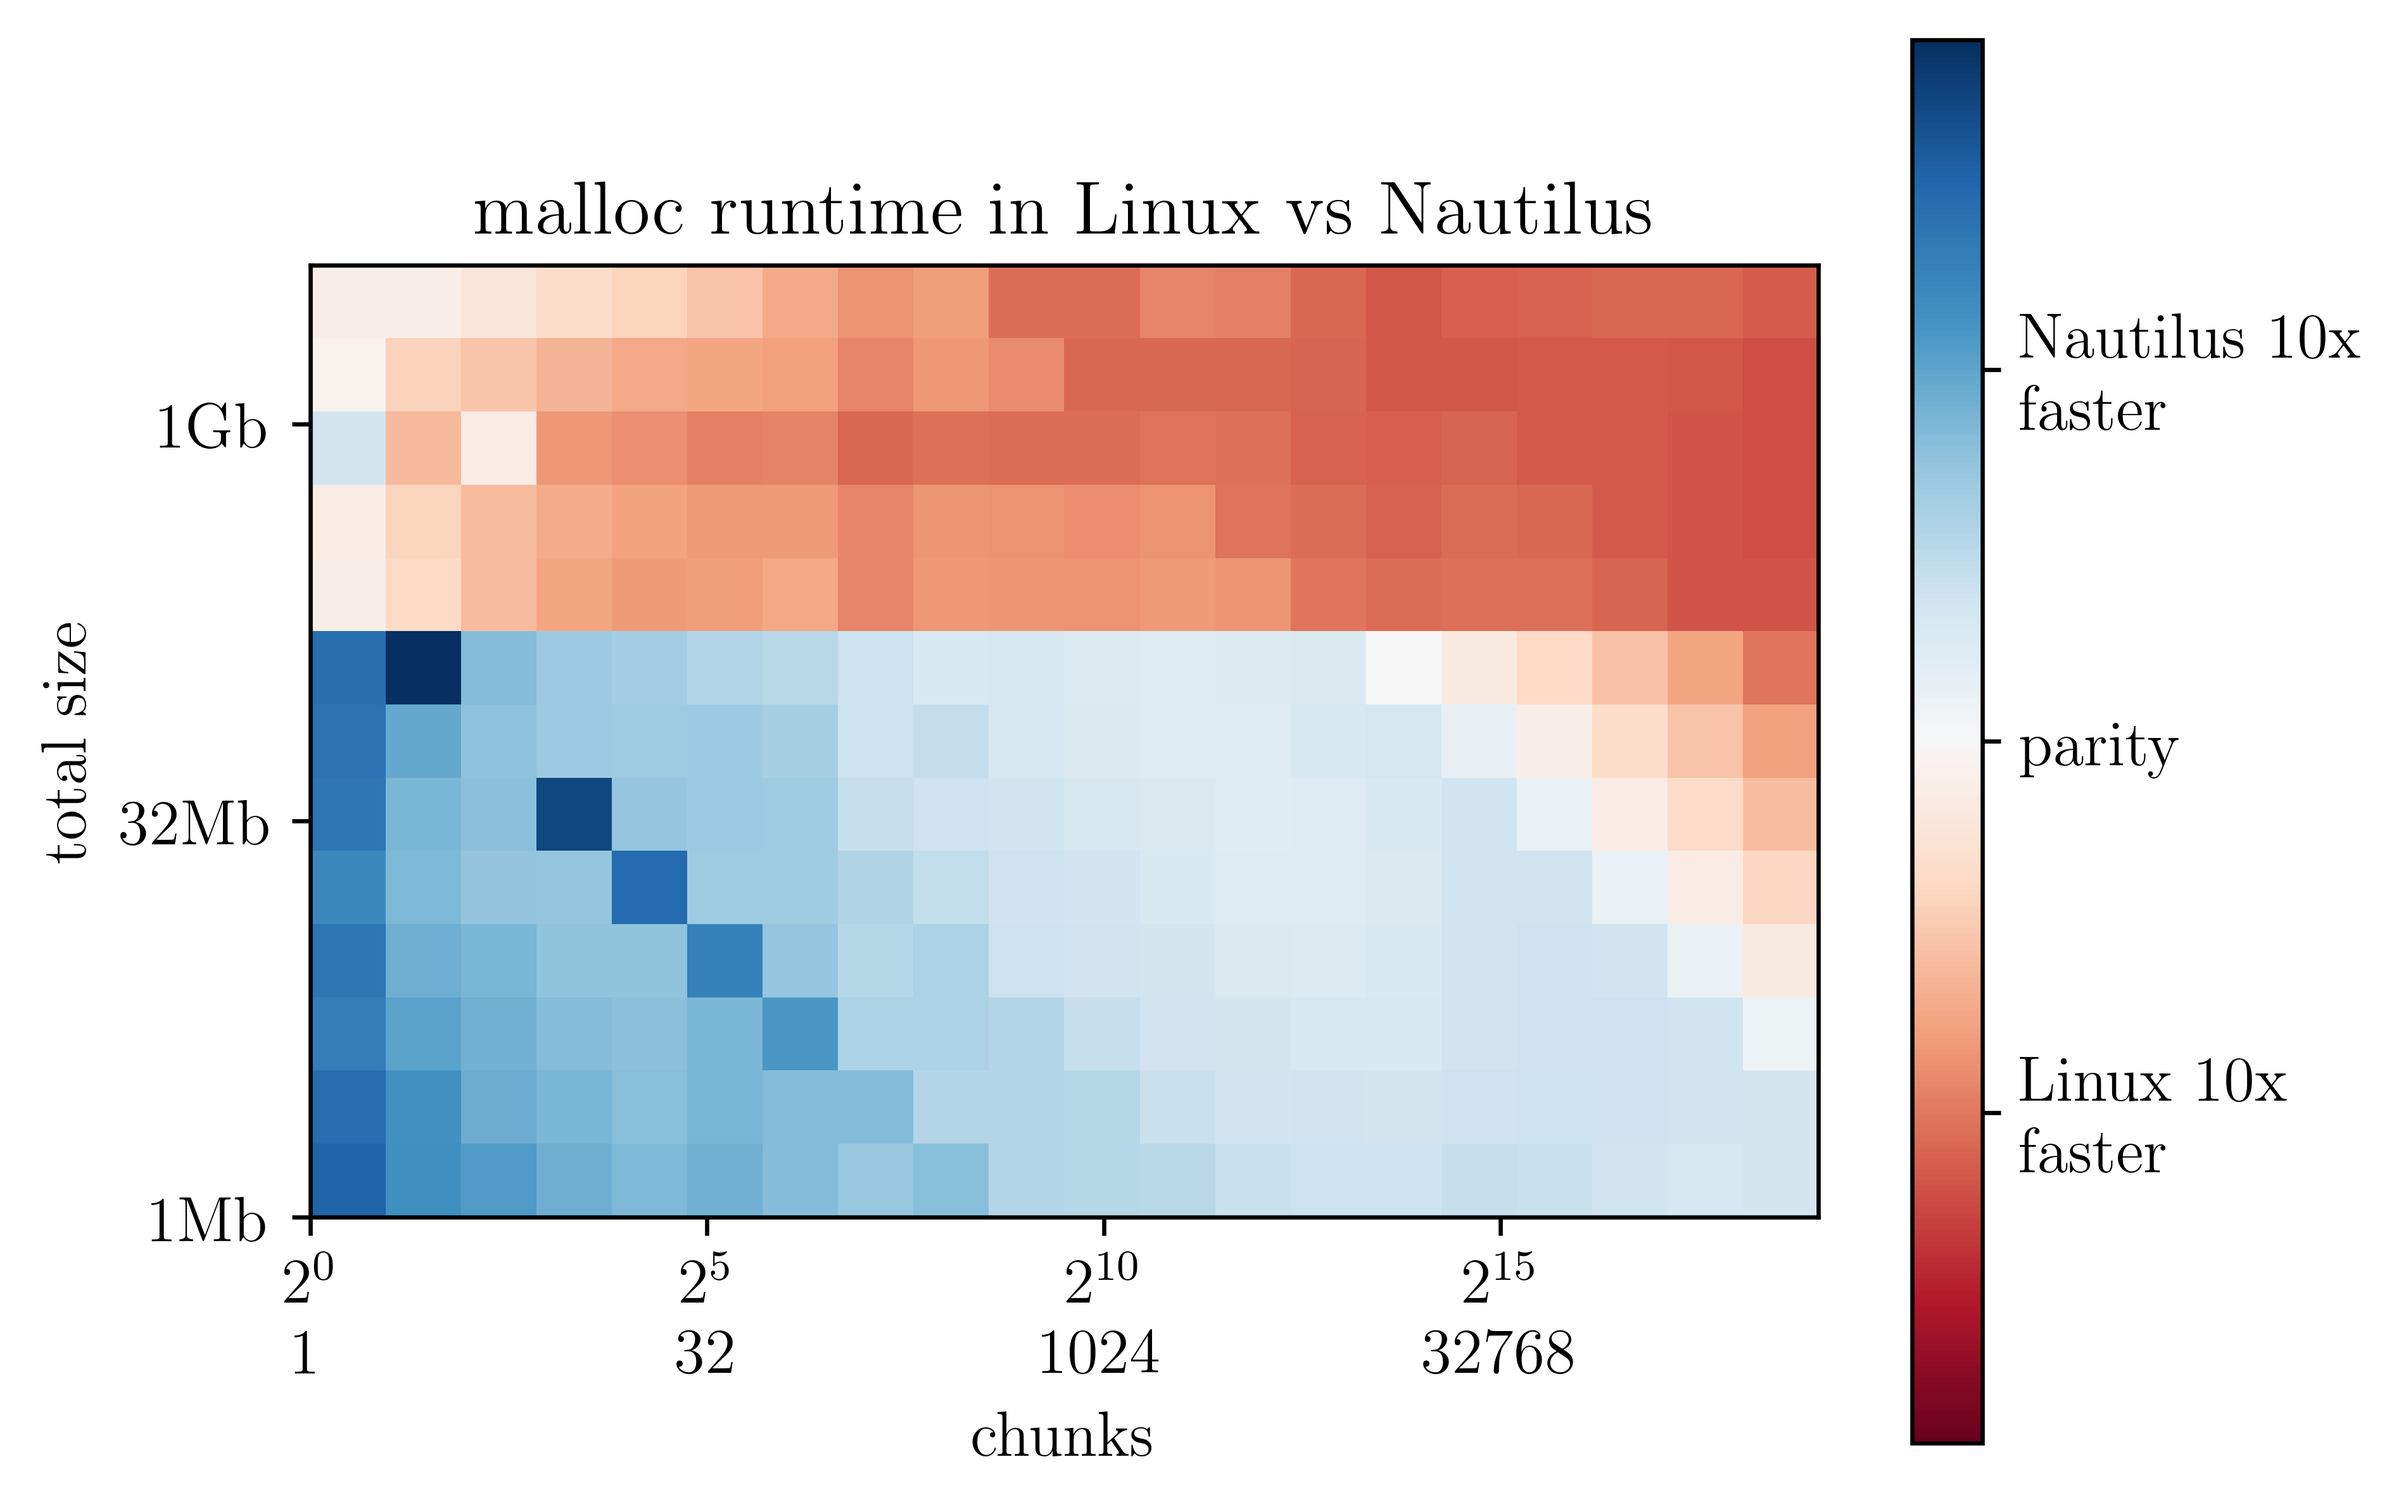
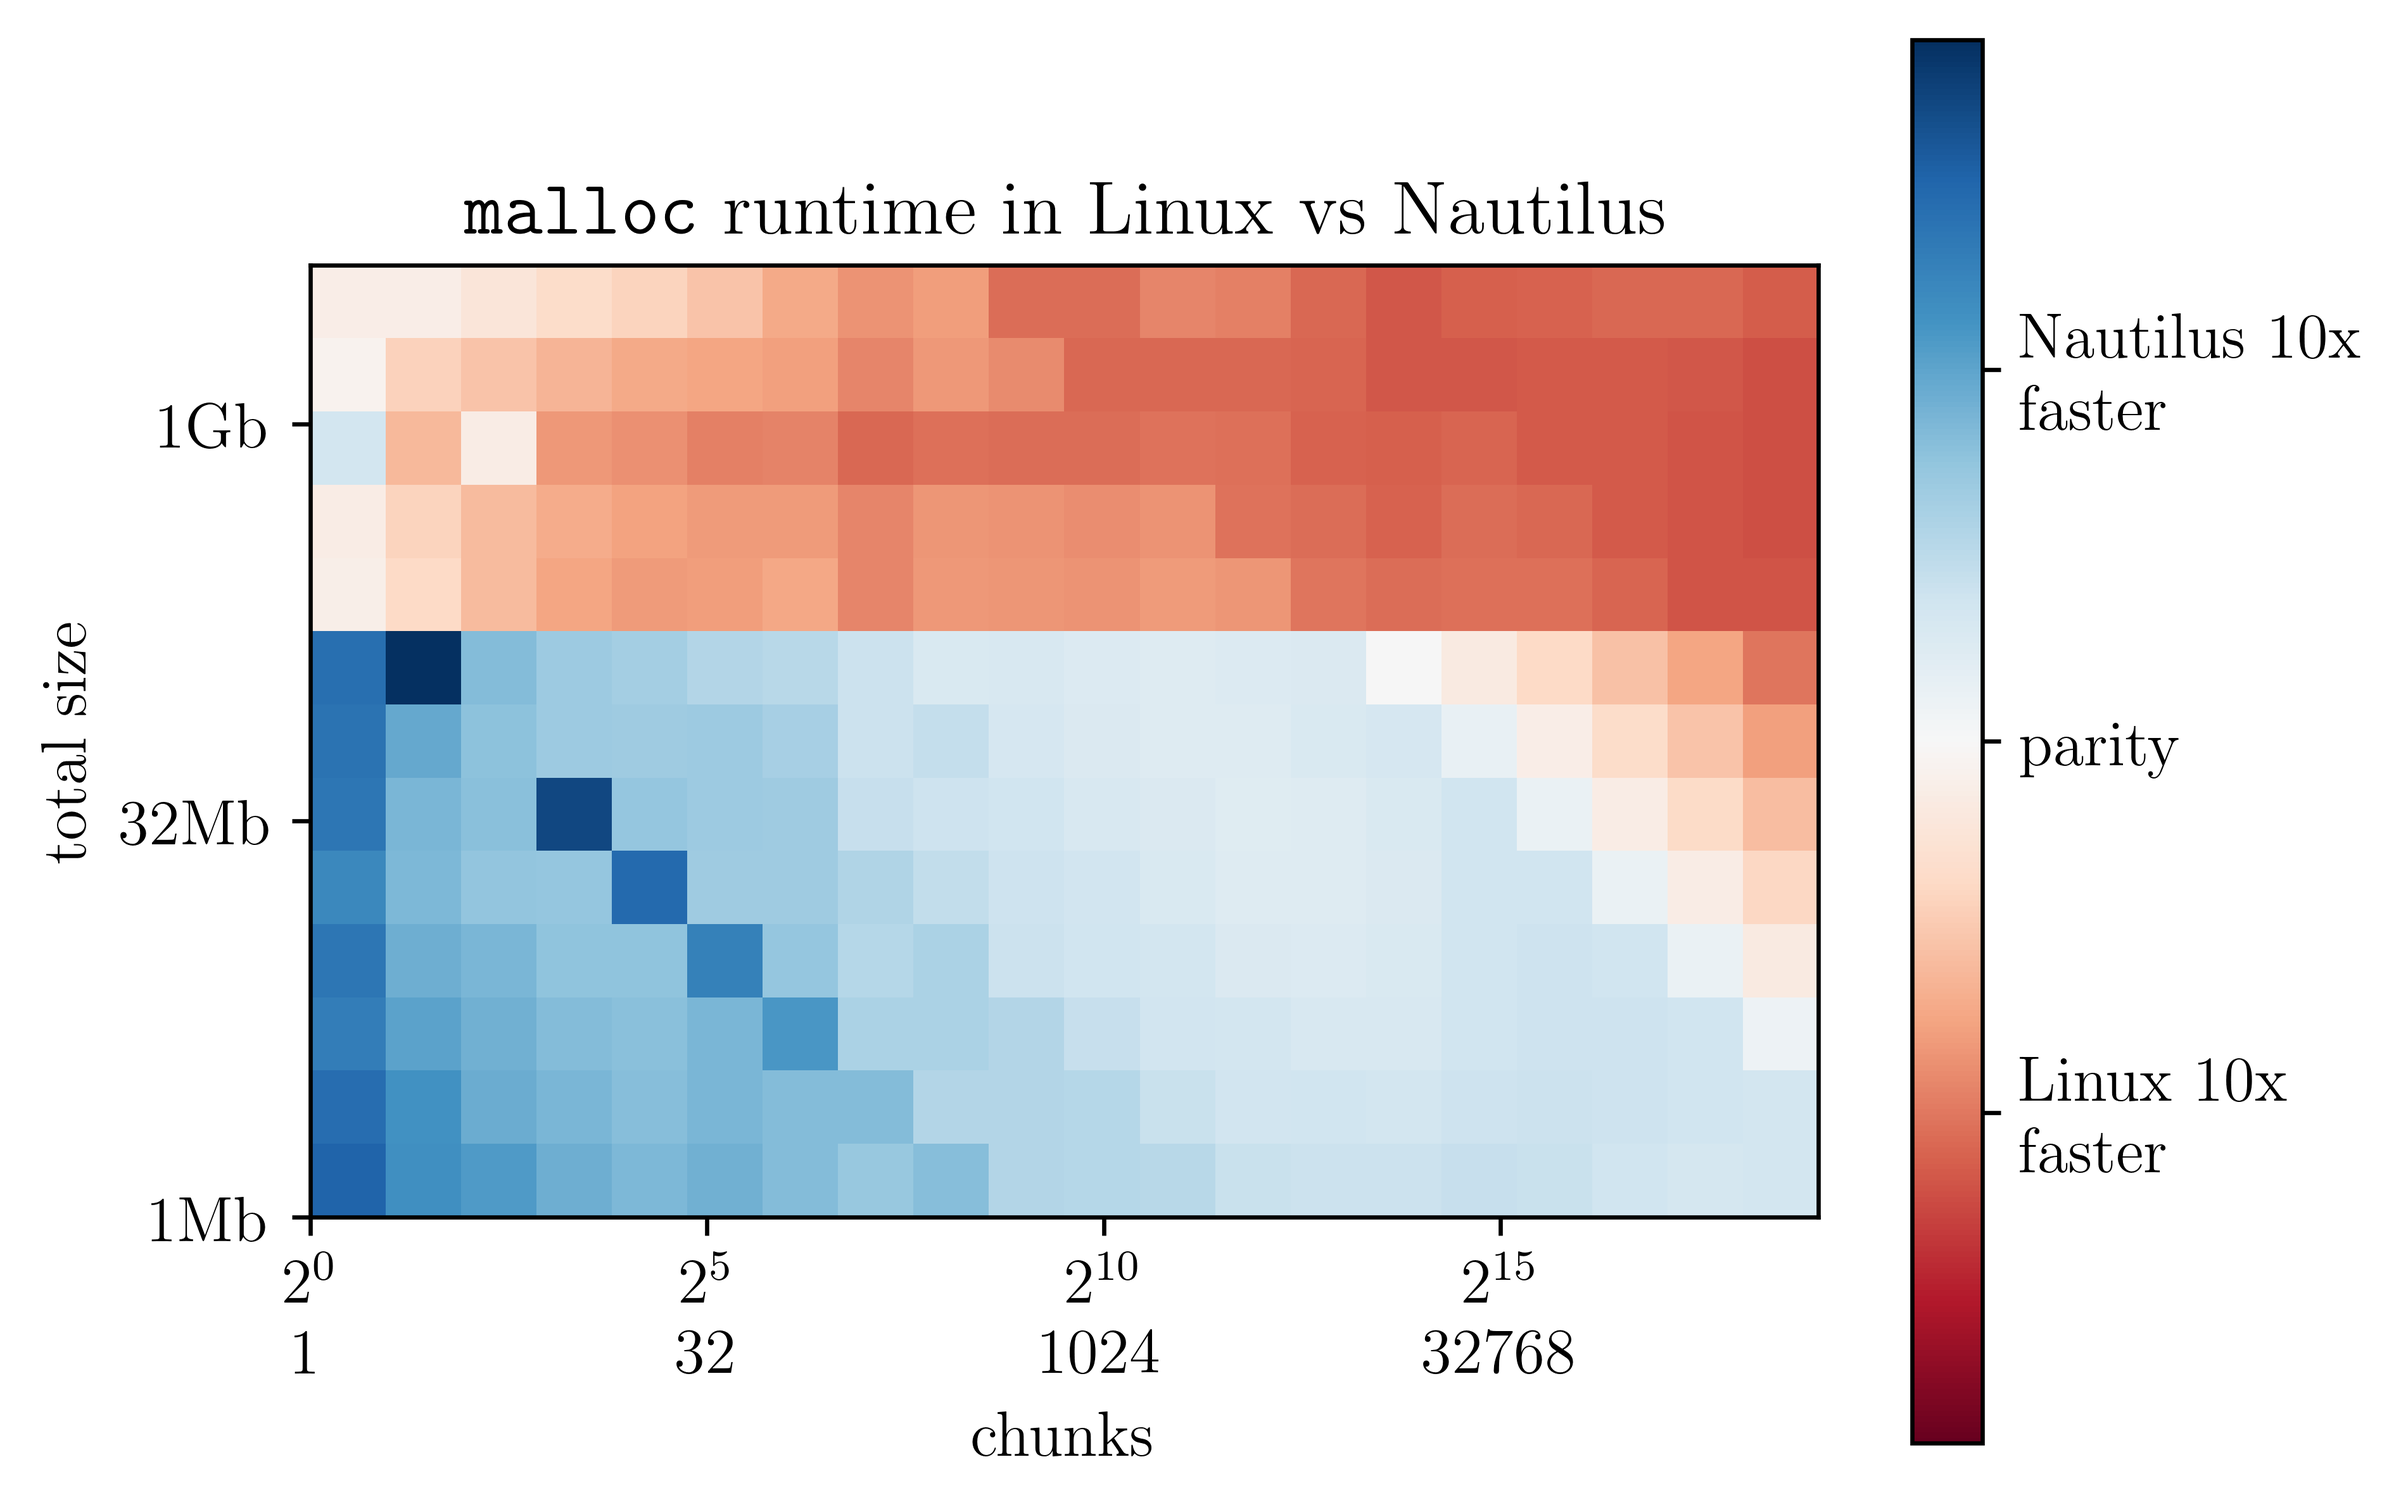
new

Changed region(s): [[0.1868, 0.1243, 0.6848, 0.1554]]

diff --git a/motivation.tex b/motivation.tex
@@ -1,43 +1,48 @@
 \begin{block}{Motivation and Background}
 
-
-
-
 \underline{\textbf{Status quo}}
   \begin{itemize}
-  \item General purpose OS and DBs% not aware of the workload; app-programmer is.
+  \item The same general prupose OS kernel and write application code at user-level.
     \begin{itemize}
-    \item broad interface for generality
-    \item high-level abstractions for programmability
+    \item layer of abstraction over HW, makes it hard to extract maximal performance
+    \item not workload aware; it optimizes for the general case, but not necessarily our specific case.
     \end{itemize}
-%      use specialized scheduling and memory management abstractions.
- %   \item DBs suffer from over lack of specialization
-    \item Too many abstractions $\implies$ high-performance is difficult to achieve
+ 
+  \item Time-sharing kernel.
+    \begin{itemize}
+    \item context-switches, scheduling interrupts, and thread-migration
     \end{itemize}
-    \begin{center}
- \alert{\textbf{Solution:} Give up flexibility and generality in exchange for performance}
-\end{center}
-\\[7mm]
-    
-\underline{\textbf{Specialized Hybrid Runtimes}}
+  
+  \item Queries composed at runtime.
+    \begin{itemize}
+    \item Deep function-call trees.
+    \item Poor spacial locality in instruction memory
+    \end{itemize}
+  \end{itemize}
+
+  \begin{center}
+    \alert{\textbf{Solution:} Give up flexibility and generality in exchange for performance}
+  \end{center}
+   
+  \underline{\textbf{Specialized Hybrid Runtimes}}
     \begin{itemize}
     \item Kernel + Dataflow Runtime run in ring 0 (unikernel-like).
-    \item Resources can be split between general purpose OS and hybrid runtime
+    \item Physical resources can be partitioned between general purpose OS and hybrid runtime\cite{KOCOLOSKI:2015:PISCES}.
       \begin{itemize}
-      \item $\implies$ can use general purpose OS where needed
-    \end{itemize}
+      \item $\implies$ can call general purpose OS where needed.
+      \end{itemize}
 
       % Advances in multi-kernel environments allow physical \todo{(cite pisces)} resources to be split between a full-weight kernel and a hybrid runtime.
       % \item \alert{Unikernel-inspired design prevents the OS from `getting in the way' of the app-programmer.}
     \item {Unikernel-inspired design gives programmer fine-grained control over \ldots}
       \begin{itemize}
-      \item scheduling $\implies$ no context-switches
-      \item OS $\implies$ avoid interrupts $\implies$ faster and more predictable
-      \item No virtual memory $\implies$ huge page-sizes (1Gb) $\implies$ no TLB misses.
-      \item memory allocation $\implies$ specialize allocator for workload/application (see Fig.~ \ref{fig:1})
+      \item Not time-shared $\implies$ No context-switches or thread-migration.
+      \item Avoid interrupts $\implies$ faster and more predictable
+      \item Single address space $\implies$ huge page-sizes (1Gb) $\implies$ no TLB misses.
+      \item Memory allocation $\implies$ specialize allocator for workload/application (see Fig.~ \ref{fig:1})
       \end{itemize}
     \end{itemize}
-
+  
     \underline{\textbf{Compiled Query Processing}}
     \begin{itemize}
     \item DB engine is specialized for a particular query

diff --git a/abstract.tex b/abstract.tex
@@ -8,7 +8,7 @@
       (unikernels) and  DB community (compiled queries) for high-performance query processing.}
 \end{overviewbox}
   \begin{itemize}
-  \item   With the explosion of ``big data'', executing queries on vast amounts of data in parallel has become a bottleneck in many HPC systems and beyond.
+  \item   With the explosion of ``big data'', executing queries on vast amounts of data in parallel has become a bottleneck in many HPC systems.
   \item   Complex multi-layered abstractions behind generic interfaces in the traditional OS and database software stack are getting in the way of exploiting the characteristics of modern multi-core systems to maximize performance.
   \item   To mitigate this inefficiency, we built \textbf{NautDB}, a \textbf{hybrid runtime kernel} (based on the \textbf{Nautilus Aerokernel}~\cite{HALE:2015:NAUTILUS}) for the parallel execution of \textbf{compiled queries}, thus, combining for the first time the concepts of hybrid runtimes and compiled query processing developed by the operating system and database communities.
   \item   We implement a \textbf{testing prototype} to evaluate the potential performance benefits that can be achieved by our specialized hybrid runtime against a general-purpose runtime, for which Linux will serve as our exemplar.

diff --git a/main.tex b/main.tex
@@ -51,8 +51,8 @@
       \begin{column}{.02\paperwidth}
       \end{column}
       \begin{column}{.18\paperwidth}
-\includegraphics[width=10cm,keepaspectratio]{dbgrouplogo.pdf}~%
-    \includegraphics[width=14cm,keepaspectratio]{hexsalablogo.pdf}%
+        \includegraphics[width=10cm,keepaspectratio]{dbgrouplogo.pdf}~%
+        %\includegraphics[width=14cm,keepaspectratio]{hexsalablogo.pdf}%
         \vskip1ex
       \end{column}
       \begin{column}{.6\paperwidth}

diff --git a/plots/comparing_malloc_performance.py b/plots/comparing_malloc_performance.py
@@ -83,6 +83,6 @@ plt.xticks([0, 5, 10, 15], ['$2^0$\n1', '$2^5$\n32', '$2^{10}$\n1024', '$2^{15}$
 cbar.set_ticks([-1, 0, 1])
 cbar.set_ticklabels(['Linux 10x\nfaster', 'parity', 'Nautilus 10x\nfaster'])
 plt.ylabel('total size')
-plt.title('malloc runtime in Linux vs Nautilus')
+plt.title(r'$\texttt{malloc}$ runtime in Linux vs Nautilus')
 
 plt.savefig('malloc.png', bbox_inches='tight')
